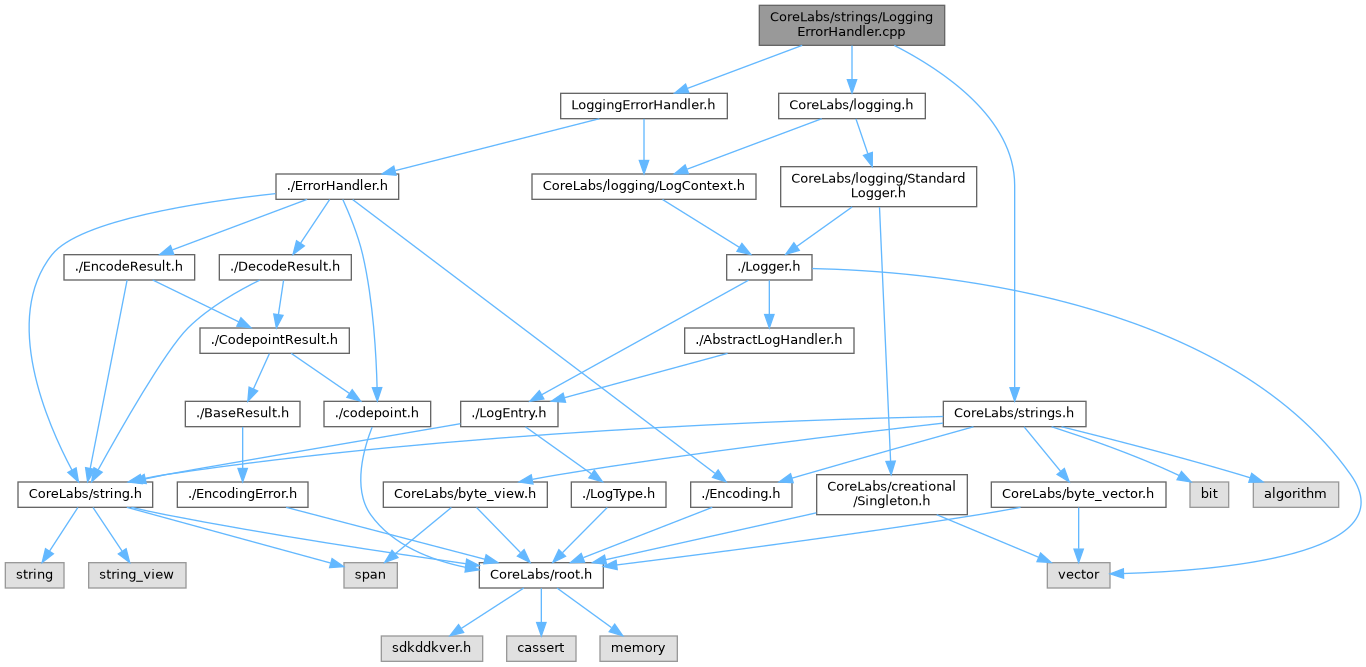
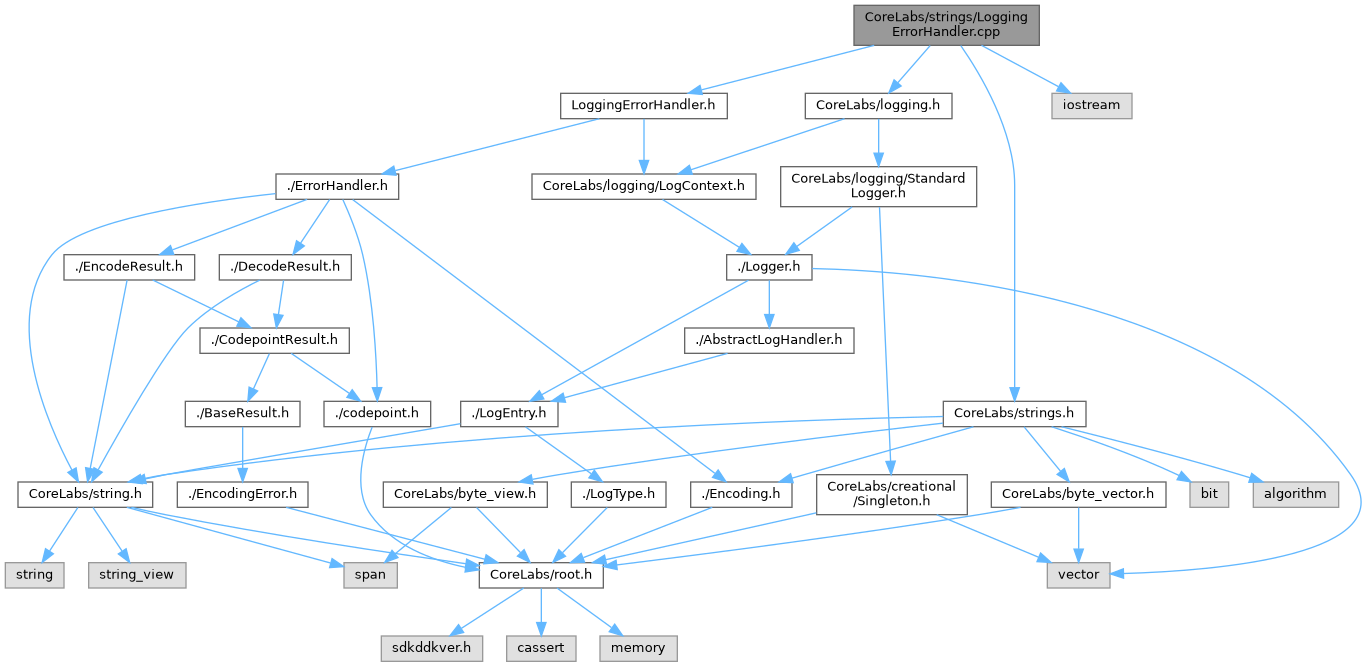
Fix two encoding "bugs"

diff --git a/d5/dd6/LoggingErrorHandler_8h_source.html b/d5/dd6/LoggingErrorHandler_8h_source.html
@@ -172,19 +172,19 @@ $(document).ready(function(){initNavTree('d5/dd6/LoggingErrorHandler_8h_source.h
 <div class="ttc" id="aLogContext_8h_html"><div class="ttname"><a href="../../df/d15/LogContext_8h.html">LogContext.h</a></div></div>
 <div class="ttc" id="aclasscl7_1_1strings_1_1ErrorHandler_html"><div class="ttname"><a href="../../d7/dff/classcl7_1_1strings_1_1ErrorHandler.html">cl7::strings::ErrorHandler</a></div><div class="ttdef"><b>Definition</b> ErrorHandler.h:18</div></div>
 <div class="ttc" id="aclasscl7_1_1strings_1_1LoggingErrorHandler_html"><div class="ttname"><a href="../../d0/d92/classcl7_1_1strings_1_1LoggingErrorHandler.html">cl7::strings::LoggingErrorHandler</a></div><div class="ttdef"><b>Definition</b> LoggingErrorHandler.h:15</div></div>
-<div class="ttc" id="aclasscl7_1_1strings_1_1LoggingErrorHandler_html_a1ba39f7863cad7d6255d52e25235716a"><div class="ttname"><a href="../../d0/d92/classcl7_1_1strings_1_1LoggingErrorHandler.html#a1ba39f7863cad7d6255d52e25235716a">cl7::strings::LoggingErrorHandler::_on_overlong_encoding</a></div><div class="ttdeci">DecodeResult&lt; cl7::u8char_t &gt; _on_overlong_encoding(cl7::u8string_view input_read) const override</div><div class="ttdef"><b>Definition</b> LoggingErrorHandler.cpp:150</div></div>
+<div class="ttc" id="aclasscl7_1_1strings_1_1LoggingErrorHandler_html_a1ba39f7863cad7d6255d52e25235716a"><div class="ttname"><a href="../../d0/d92/classcl7_1_1strings_1_1LoggingErrorHandler.html#a1ba39f7863cad7d6255d52e25235716a">cl7::strings::LoggingErrorHandler::_on_overlong_encoding</a></div><div class="ttdeci">DecodeResult&lt; cl7::u8char_t &gt; _on_overlong_encoding(cl7::u8string_view input_read) const override</div><div class="ttdef"><b>Definition</b> LoggingErrorHandler.cpp:170</div></div>
 <div class="ttc" id="aclasscl7_1_1strings_1_1LoggingErrorHandler_html_a3079baabe7d9783402812eabeff53799"><div class="ttname"><a href="../../d0/d92/classcl7_1_1strings_1_1LoggingErrorHandler.html#a3079baabe7d9783402812eabeff53799">cl7::strings::LoggingErrorHandler::_log_context</a></div><div class="ttdeci">cl7::logging::LogContext _log_context</div><div class="ttdef"><b>Definition</b> LoggingErrorHandler.h:59</div></div>
-<div class="ttc" id="aclasscl7_1_1strings_1_1LoggingErrorHandler_html_a34002e6d1760b6ea2b02b98f48b35c8e"><div class="ttname"><a href="../../d0/d92/classcl7_1_1strings_1_1LoggingErrorHandler.html#a34002e6d1760b6ea2b02b98f48b35c8e">cl7::strings::LoggingErrorHandler::_on_exhausted_output_space</a></div><div class="ttdeci">CodepointResult _on_exhausted_output_space(Encoding encoding, CodepointResult codepoint_result) const override</div><div class="ttdef"><b>Definition</b> LoggingErrorHandler.cpp:40</div></div>
+<div class="ttc" id="aclasscl7_1_1strings_1_1LoggingErrorHandler_html_a34002e6d1760b6ea2b02b98f48b35c8e"><div class="ttname"><a href="../../d0/d92/classcl7_1_1strings_1_1LoggingErrorHandler.html#a34002e6d1760b6ea2b02b98f48b35c8e">cl7::strings::LoggingErrorHandler::_on_exhausted_output_space</a></div><div class="ttdeci">CodepointResult _on_exhausted_output_space(Encoding encoding, CodepointResult codepoint_result) const override</div><div class="ttdef"><b>Definition</b> LoggingErrorHandler.cpp:47</div></div>
 <div class="ttc" id="aclasscl7_1_1strings_1_1LoggingErrorHandler_html_a8025592e8dc7fb104389d764947fced9"><div class="ttname"><a href="../../d0/d92/classcl7_1_1strings_1_1LoggingErrorHandler.html#a8025592e8dc7fb104389d764947fced9">cl7::strings::LoggingErrorHandler::~LoggingErrorHandler</a></div><div class="ttdeci">~LoggingErrorHandler() override=default</div></div>
-<div class="ttc" id="aclasscl7_1_1strings_1_1LoggingErrorHandler_html_a809caf8f8787845c6d44878553467c59"><div class="ttname"><a href="../../d0/d92/classcl7_1_1strings_1_1LoggingErrorHandler.html#a809caf8f8787845c6d44878553467c59">cl7::strings::LoggingErrorHandler::_on_unpaired_surrogate</a></div><div class="ttdeci">DecodeResult&lt; cl7::u16char_t &gt; _on_unpaired_surrogate(cl7::u16string_view input_read) const override</div><div class="ttdef"><b>Definition</b> LoggingErrorHandler.cpp:174</div></div>
-<div class="ttc" id="aclasscl7_1_1strings_1_1LoggingErrorHandler_html_a8b5a1a10b1647fce3c5c839cf2eb047a"><div class="ttname"><a href="../../d0/d92/classcl7_1_1strings_1_1LoggingErrorHandler.html#a8b5a1a10b1647fce3c5c839cf2eb047a">cl7::strings::LoggingErrorHandler::_try_log_warning</a></div><div class="ttdeci">void _try_log_warning(cl7::u8string_view message) const</div><div class="ttdef"><b>Definition</b> LoggingErrorHandler.cpp:185</div></div>
-<div class="ttc" id="aclasscl7_1_1strings_1_1LoggingErrorHandler_html_ab26cf1fe81734e672572235176549d82"><div class="ttname"><a href="../../d0/d92/classcl7_1_1strings_1_1LoggingErrorHandler.html#ab26cf1fe81734e672572235176549d82">cl7::strings::LoggingErrorHandler::_on_invalid_code_unit</a></div><div class="ttdeci">DecodeResult&lt; cl7::achar_t &gt; _on_invalid_code_unit(cl7::astring_view input_read) const override</div><div class="ttdef"><b>Definition</b> LoggingErrorHandler.cpp:56</div></div>
-<div class="ttc" id="aclasscl7_1_1strings_1_1LoggingErrorHandler_html_acd59b7f4e29a6ddf261dec610cdc0b10"><div class="ttname"><a href="../../d0/d92/classcl7_1_1strings_1_1LoggingErrorHandler.html#acd59b7f4e29a6ddf261dec610cdc0b10">cl7::strings::LoggingErrorHandler::_on_invalid_sequence</a></div><div class="ttdeci">DecodeResult&lt; cl7::u8char_t &gt; _on_invalid_sequence(cl7::u8string_view input_read) const override</div><div class="ttdef"><b>Definition</b> LoggingErrorHandler.cpp:97</div></div>
+<div class="ttc" id="aclasscl7_1_1strings_1_1LoggingErrorHandler_html_a809caf8f8787845c6d44878553467c59"><div class="ttname"><a href="../../d0/d92/classcl7_1_1strings_1_1LoggingErrorHandler.html#a809caf8f8787845c6d44878553467c59">cl7::strings::LoggingErrorHandler::_on_unpaired_surrogate</a></div><div class="ttdeci">DecodeResult&lt; cl7::u16char_t &gt; _on_unpaired_surrogate(cl7::u16string_view input_read) const override</div><div class="ttdef"><b>Definition</b> LoggingErrorHandler.cpp:194</div></div>
+<div class="ttc" id="aclasscl7_1_1strings_1_1LoggingErrorHandler_html_a8b5a1a10b1647fce3c5c839cf2eb047a"><div class="ttname"><a href="../../d0/d92/classcl7_1_1strings_1_1LoggingErrorHandler.html#a8b5a1a10b1647fce3c5c839cf2eb047a">cl7::strings::LoggingErrorHandler::_try_log_warning</a></div><div class="ttdeci">void _try_log_warning(cl7::u8string_view message) const</div><div class="ttdef"><b>Definition</b> LoggingErrorHandler.cpp:205</div></div>
+<div class="ttc" id="aclasscl7_1_1strings_1_1LoggingErrorHandler_html_ab26cf1fe81734e672572235176549d82"><div class="ttname"><a href="../../d0/d92/classcl7_1_1strings_1_1LoggingErrorHandler.html#ab26cf1fe81734e672572235176549d82">cl7::strings::LoggingErrorHandler::_on_invalid_code_unit</a></div><div class="ttdeci">DecodeResult&lt; cl7::achar_t &gt; _on_invalid_code_unit(cl7::astring_view input_read) const override</div><div class="ttdef"><b>Definition</b> LoggingErrorHandler.cpp:63</div></div>
+<div class="ttc" id="aclasscl7_1_1strings_1_1LoggingErrorHandler_html_acd59b7f4e29a6ddf261dec610cdc0b10"><div class="ttname"><a href="../../d0/d92/classcl7_1_1strings_1_1LoggingErrorHandler.html#acd59b7f4e29a6ddf261dec610cdc0b10">cl7::strings::LoggingErrorHandler::_on_invalid_sequence</a></div><div class="ttdeci">DecodeResult&lt; cl7::u8char_t &gt; _on_invalid_sequence(cl7::u8string_view input_read) const override</div><div class="ttdef"><b>Definition</b> LoggingErrorHandler.cpp:104</div></div>
 <div class="ttc" id="aclasscl7_1_1strings_1_1LoggingErrorHandler_html_ad359dcca14f7eb3479c692702bf67d3b"><div class="ttname"><a href="../../d0/d92/classcl7_1_1strings_1_1LoggingErrorHandler.html#ad359dcca14f7eb3479c692702bf67d3b">cl7::strings::LoggingErrorHandler::get_log_context</a></div><div class="ttdeci">cl7::logging::LogContext get_log_context() const</div><div class="ttdef"><b>Definition</b> LoggingErrorHandler.h:25</div></div>
-<div class="ttc" id="aclasscl7_1_1strings_1_1LoggingErrorHandler_html_adb46c5ff84fa401bbd5e1618f4e840c1"><div class="ttname"><a href="../../d0/d92/classcl7_1_1strings_1_1LoggingErrorHandler.html#adb46c5ff84fa401bbd5e1618f4e840c1">cl7::strings::LoggingErrorHandler::_check_adjust_unicode</a></div><div class="ttdeci">CodepointResult _check_adjust_unicode(codepoint codepoint) const override</div><div class="ttdef"><b>Definition</b> LoggingErrorHandler.cpp:27</div></div>
-<div class="ttc" id="aclasscl7_1_1strings_1_1LoggingErrorHandler_html_aecce4053e872227d96c26767f7c4678e"><div class="ttname"><a href="../../d0/d92/classcl7_1_1strings_1_1LoggingErrorHandler.html#aecce4053e872227d96c26767f7c4678e">cl7::strings::LoggingErrorHandler::_on_insufficient_output_space</a></div><div class="ttdeci">CodepointResult _on_insufficient_output_space(Encoding encoding, CodepointResult codepoint_result, size_t required, size_t available) const override</div><div class="ttdef"><b>Definition</b> LoggingErrorHandler.cpp:47</div></div>
-<div class="ttc" id="aclasscl7_1_1strings_1_1LoggingErrorHandler_html_af6022ac12da78fc967273e0157afbf70"><div class="ttname"><a href="../../d0/d92/classcl7_1_1strings_1_1LoggingErrorHandler.html#af6022ac12da78fc967273e0157afbf70">cl7::strings::LoggingErrorHandler::_check_adjust_ascii</a></div><div class="ttdeci">CodepointResult _check_adjust_ascii(codepoint codepoint) const override</div><div class="ttdef"><b>Definition</b> LoggingErrorHandler.cpp:19</div></div>
-<div class="ttc" id="aclasscl7_1_1strings_1_1LoggingErrorHandler_html_afe8babb3a0e67a4976cd66385404cbbf"><div class="ttname"><a href="../../d0/d92/classcl7_1_1strings_1_1LoggingErrorHandler.html#afe8babb3a0e67a4976cd66385404cbbf">cl7::strings::LoggingErrorHandler::_on_incomplete_sequence</a></div><div class="ttdeci">DecodeResult&lt; cl7::u8char_t &gt; _on_incomplete_sequence(cl7::u8string_view input_read, size_t expected_length) const override</div><div class="ttdef"><b>Definition</b> LoggingErrorHandler.cpp:127</div></div>
+<div class="ttc" id="aclasscl7_1_1strings_1_1LoggingErrorHandler_html_adb46c5ff84fa401bbd5e1618f4e840c1"><div class="ttname"><a href="../../d0/d92/classcl7_1_1strings_1_1LoggingErrorHandler.html#adb46c5ff84fa401bbd5e1618f4e840c1">cl7::strings::LoggingErrorHandler::_check_adjust_unicode</a></div><div class="ttdeci">CodepointResult _check_adjust_unicode(codepoint codepoint) const override</div><div class="ttdef"><b>Definition</b> LoggingErrorHandler.cpp:34</div></div>
+<div class="ttc" id="aclasscl7_1_1strings_1_1LoggingErrorHandler_html_aecce4053e872227d96c26767f7c4678e"><div class="ttname"><a href="../../d0/d92/classcl7_1_1strings_1_1LoggingErrorHandler.html#aecce4053e872227d96c26767f7c4678e">cl7::strings::LoggingErrorHandler::_on_insufficient_output_space</a></div><div class="ttdeci">CodepointResult _on_insufficient_output_space(Encoding encoding, CodepointResult codepoint_result, size_t required, size_t available) const override</div><div class="ttdef"><b>Definition</b> LoggingErrorHandler.cpp:54</div></div>
+<div class="ttc" id="aclasscl7_1_1strings_1_1LoggingErrorHandler_html_af6022ac12da78fc967273e0157afbf70"><div class="ttname"><a href="../../d0/d92/classcl7_1_1strings_1_1LoggingErrorHandler.html#af6022ac12da78fc967273e0157afbf70">cl7::strings::LoggingErrorHandler::_check_adjust_ascii</a></div><div class="ttdeci">CodepointResult _check_adjust_ascii(codepoint codepoint) const override</div><div class="ttdef"><b>Definition</b> LoggingErrorHandler.cpp:21</div></div>
+<div class="ttc" id="aclasscl7_1_1strings_1_1LoggingErrorHandler_html_afe8babb3a0e67a4976cd66385404cbbf"><div class="ttname"><a href="../../d0/d92/classcl7_1_1strings_1_1LoggingErrorHandler.html#afe8babb3a0e67a4976cd66385404cbbf">cl7::strings::LoggingErrorHandler::_on_incomplete_sequence</a></div><div class="ttdeci">DecodeResult&lt; cl7::u8char_t &gt; _on_incomplete_sequence(cl7::u8string_view input_read, size_t expected_length) const override</div><div class="ttdef"><b>Definition</b> LoggingErrorHandler.cpp:134</div></div>
 <div class="ttc" id="anamespacecl7_1_1strings_html"><div class="ttname"><a href="../../dc/d17/namespacecl7_1_1strings.html">cl7::strings</a></div><div class="ttdef"><b>Definition</b> strings.cpp:22</div></div>
 <div class="ttc" id="anamespacecl7_1_1strings_html_a37a51f58a3c2c021cef2f5f85ca6695d"><div class="ttname"><a href="../../dc/d17/namespacecl7_1_1strings.html#a37a51f58a3c2c021cef2f5f85ca6695d">cl7::strings::Encoding</a></div><div class="ttdeci">Encoding</div><div class="ttdef"><b>Definition</b> Encoding.h:14</div></div>
 <div class="ttc" id="anamespacecl7_html_a32c38038812559f56f420fcd3be6a4a9"><div class="ttname"><a href="../../d1/d2e/namespacecl7.html#a32c38038812559f56f420fcd3be6a4a9">cl7::u32string_view</a></div><div class="ttdeci">std::basic_string_view&lt; u32char_t &gt; u32string_view</div><div class="ttdef"><b>Definition</b> string.h:37</div></div>

diff --git a/d7/d5a/LoggingErrorHandler_8cpp.html b/d7/d5a/LoggingErrorHandler_8cpp.html
@@ -99,18 +99,21 @@ $(document).ready(function(){initNavTree('d7/d5a/LoggingErrorHandler_8cpp.html',
 <div class="textblock"><code>#include &quot;<a class="el" href="../../d5/dd6/LoggingErrorHandler_8h_source.html">LoggingErrorHandler.h</a>&quot;</code><br />
 <code>#include &lt;<a class="el" href="../../d5/d77/logging_8h_source.html">CoreLabs/logging.h</a>&gt;</code><br />
 <code>#include &lt;<a class="el" href="../../d6/d90/strings_8h_source.html">CoreLabs/strings.h</a>&gt;</code><br />
+<code>#include &lt;iostream&gt;</code><br />
 </div><div class="textblock"><div class="dynheader">
 Include dependency graph for LoggingErrorHandler.cpp:</div>
 <div class="dyncontent">
 <div class="center"><img src="../../d8/daa/LoggingErrorHandler_8cpp__incl.png" border="0" usemap="#aCoreLabs_2strings_2LoggingErrorHandler_8cpp" alt=""/></div>
 <map name="aCoreLabs_2strings_2LoggingErrorHandler_8cpp" id="aCoreLabs_2strings_2LoggingErrorHandler_8cpp">
-<area shape="rect" title=" " alt="" coords="759,5,945,45"/>
+<area shape="rect" title=" " alt="" coords="854,5,1039,45"/>
 <area shape="rect" href="../../d5/dd6/LoggingErrorHandler_8h.html" title=" " alt="" coords="561,93,727,119"/>
-<area shape="poly" title=" " alt="" coords="803,48,688,91,686,86,801,43"/>
-<area shape="rect" href="../../d5/d77/logging_8h.html" title=" " alt="" coords="779,93,925,119"/>
-<area shape="poly" title=" " alt="" coords="855,46,855,79,849,79,849,46"/>
+<area shape="poly" title=" " alt="" coords="875,48,702,92,701,87,874,43"/>
+<area shape="rect" href="../../d5/d77/logging_8h.html" title=" " alt="" coords="805,93,952,119"/>
+<area shape="poly" title=" " alt="" coords="932,47,900,84,896,81,928,44"/>
 <area shape="rect" href="../../d6/d90/strings_8h.html" title=" " alt="" coords="943,401,1086,427"/>
-<area shape="poly" title=" " alt="" coords="896,43,935,66,974,97,991,116,1005,137,1014,160,1017,185,1017,269,1017,388,1012,388,1012,269,1012,186,1009,162,1000,140,987,120,971,101,932,70,893,48"/>
+<area shape="poly" title=" " alt="" coords="963,44,998,105,1012,144,1017,185,1017,269,1017,388,1012,388,1012,269,1012,186,1006,145,993,107,958,47"/>
+<area shape="rect" title=" " alt="" coords="1052,93,1132,119"/>
+<area shape="poly" title=" " alt="" coords="983,43,1060,84,1057,89,980,48"/>
 <area shape="rect" href="../../dd/d0e/ErrorHandler_8h.html" title=" " alt="" coords="276,174,399,199"/>
 <area shape="poly" title=" " alt="" coords="600,121,396,173,395,168,599,116"/>
 <area shape="rect" href="../../df/d15/LogContext_8h.html" title=" " alt="" coords="532,174,756,199"/>
@@ -165,9 +168,9 @@ Include dependency graph for LoggingErrorHandler.cpp:</div>
 <area shape="rect" href="../../d5/de4/LogType_8h.html" title=" " alt="" coords="571,482,666,507"/>
 <area shape="poly" title=" " alt="" coords="527,425,593,472,590,476,524,429"/>
 <area shape="poly" title=" " alt="" coords="609,509,564,555,561,551,605,506"/>
-<area shape="poly" title=" " alt="" coords="823,121,688,172,686,167,821,116"/>
+<area shape="poly" title=" " alt="" coords="845,121,692,172,690,167,844,116"/>
 <area shape="rect" href="../../d3/dce/StandardLogger_8h.html" title=" " alt="" coords="781,167,977,207"/>
-<area shape="poly" title=" " alt="" coords="858,118,870,153,865,155,853,120"/>
+<area shape="poly" title=" " alt="" coords="881,119,881,153,876,153,876,119"/>
 <area shape="poly" title=" " alt="" coords="854,209,798,249,795,244,851,205"/>
 <area shape="rect" href="../../d5/dae/Singleton_8h.html" title=" " alt="" coords="817,475,967,515"/>
 <area shape="poly" title=" " alt="" coords="882,207,893,461,888,461,877,207"/>
